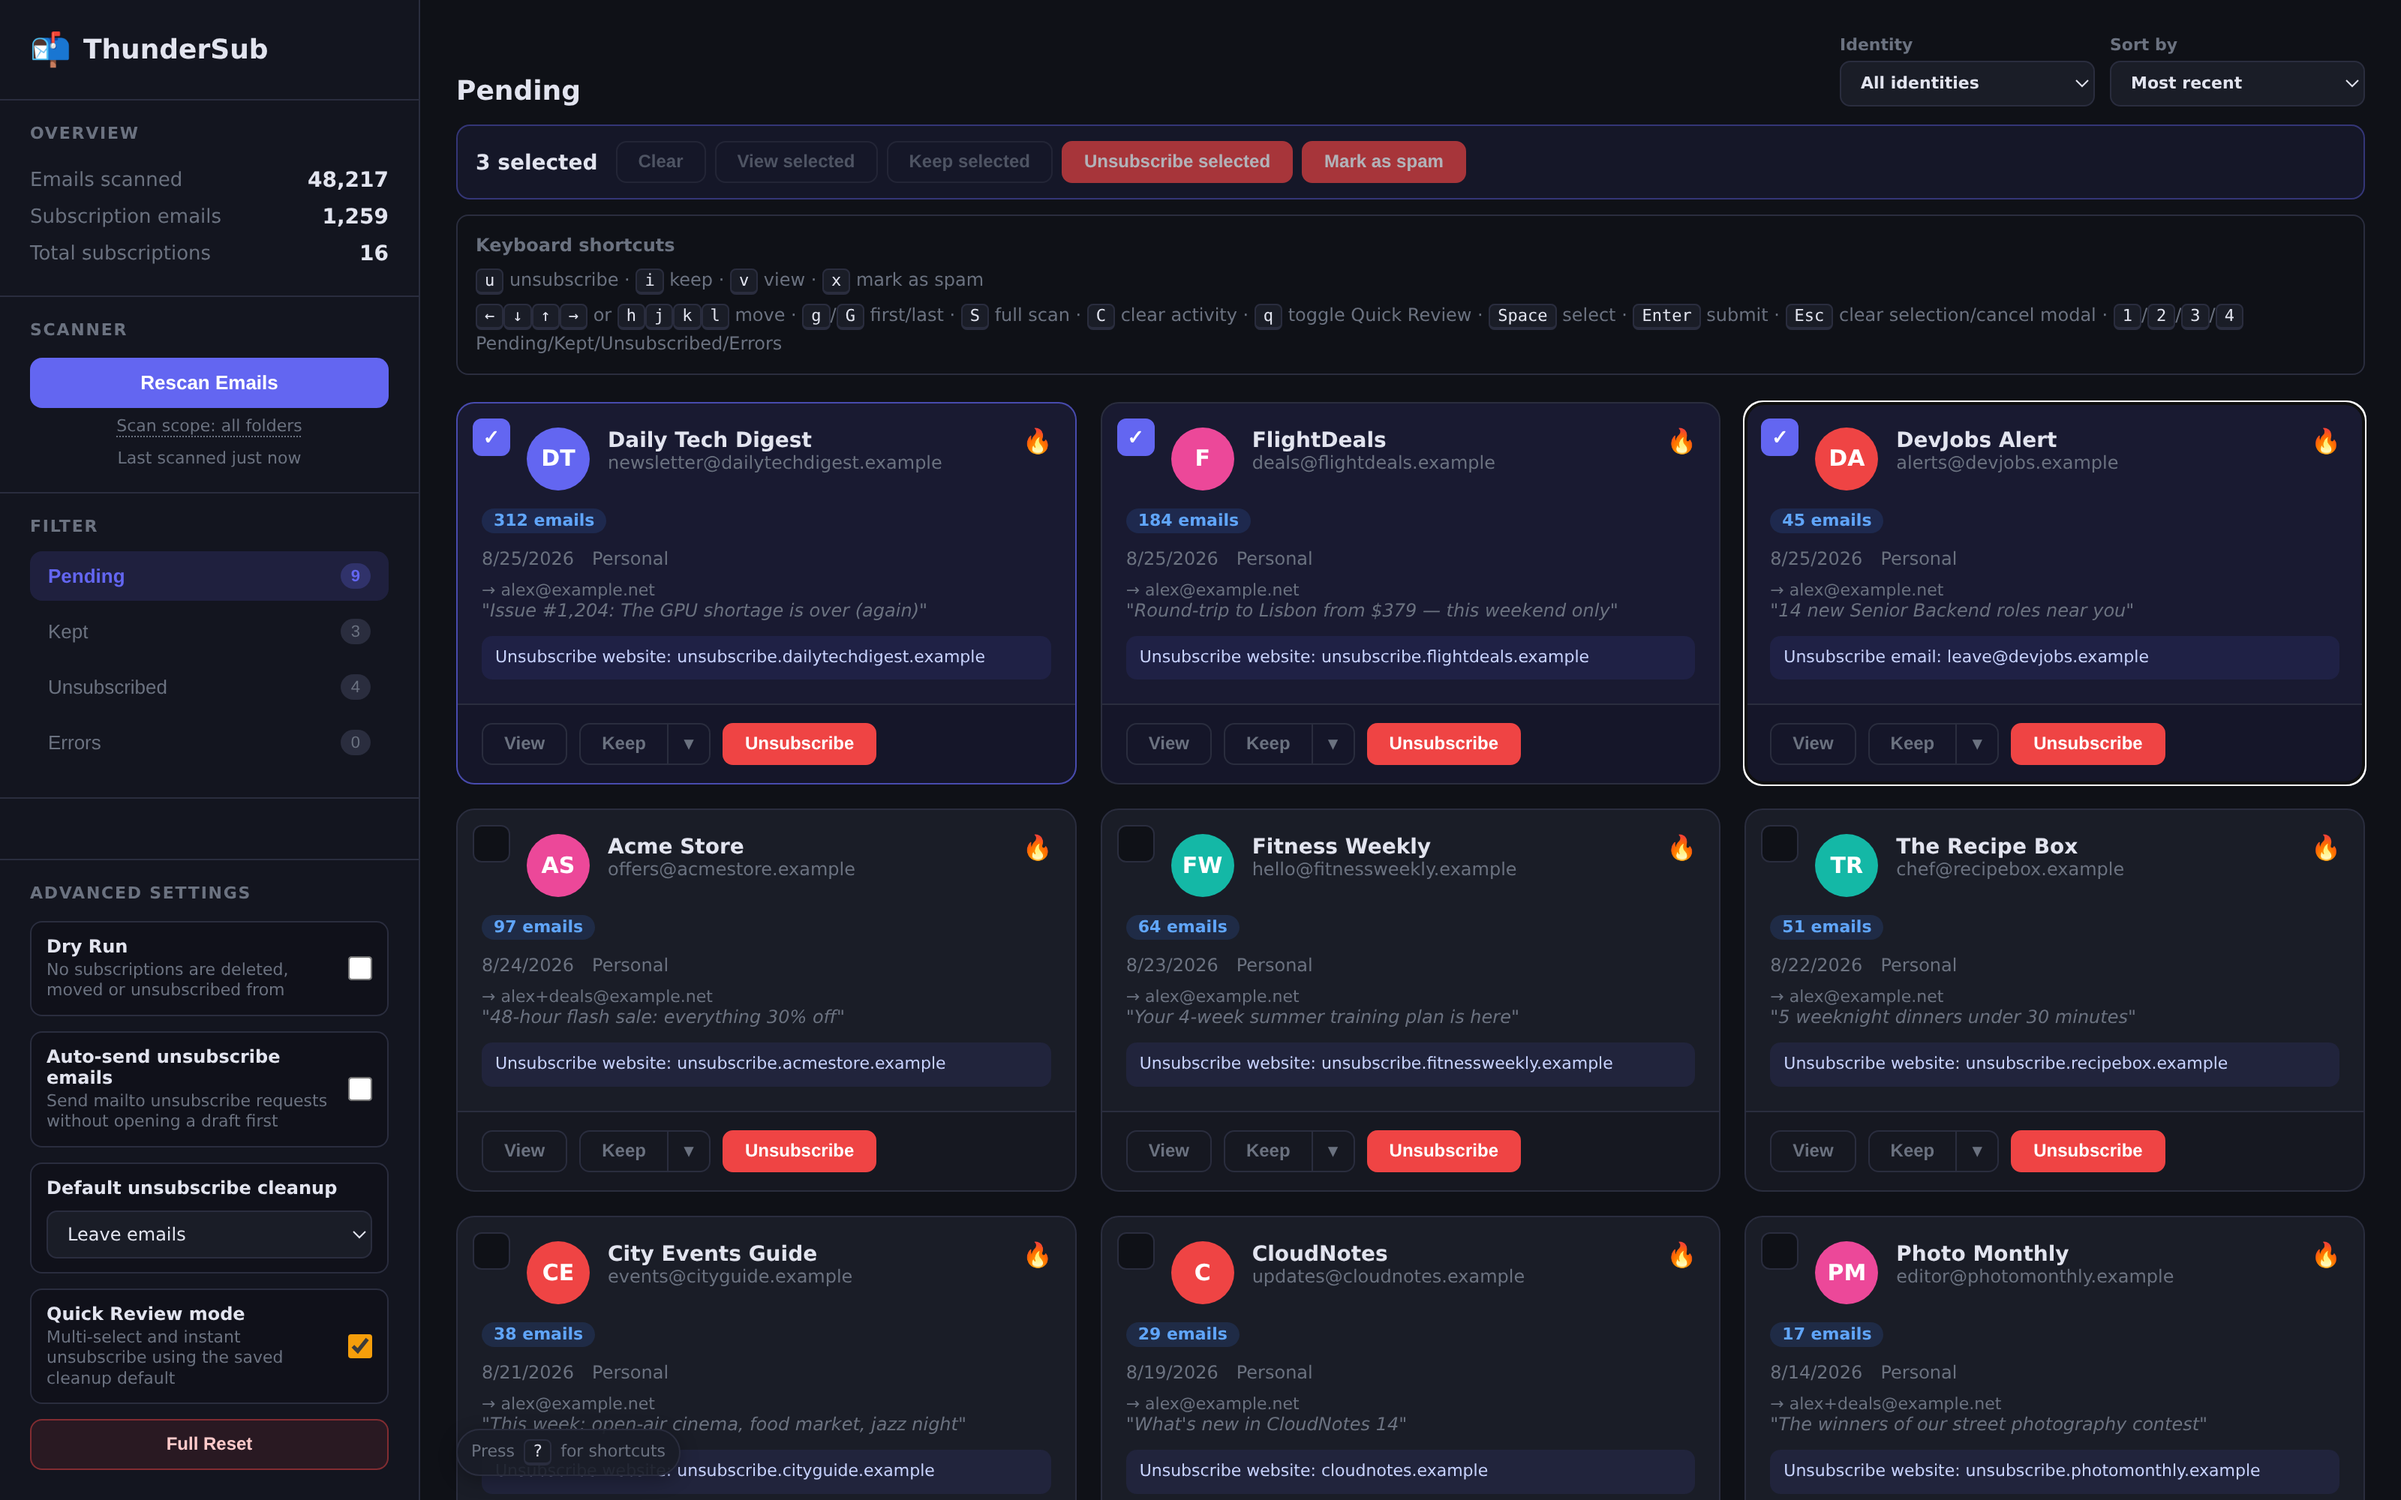
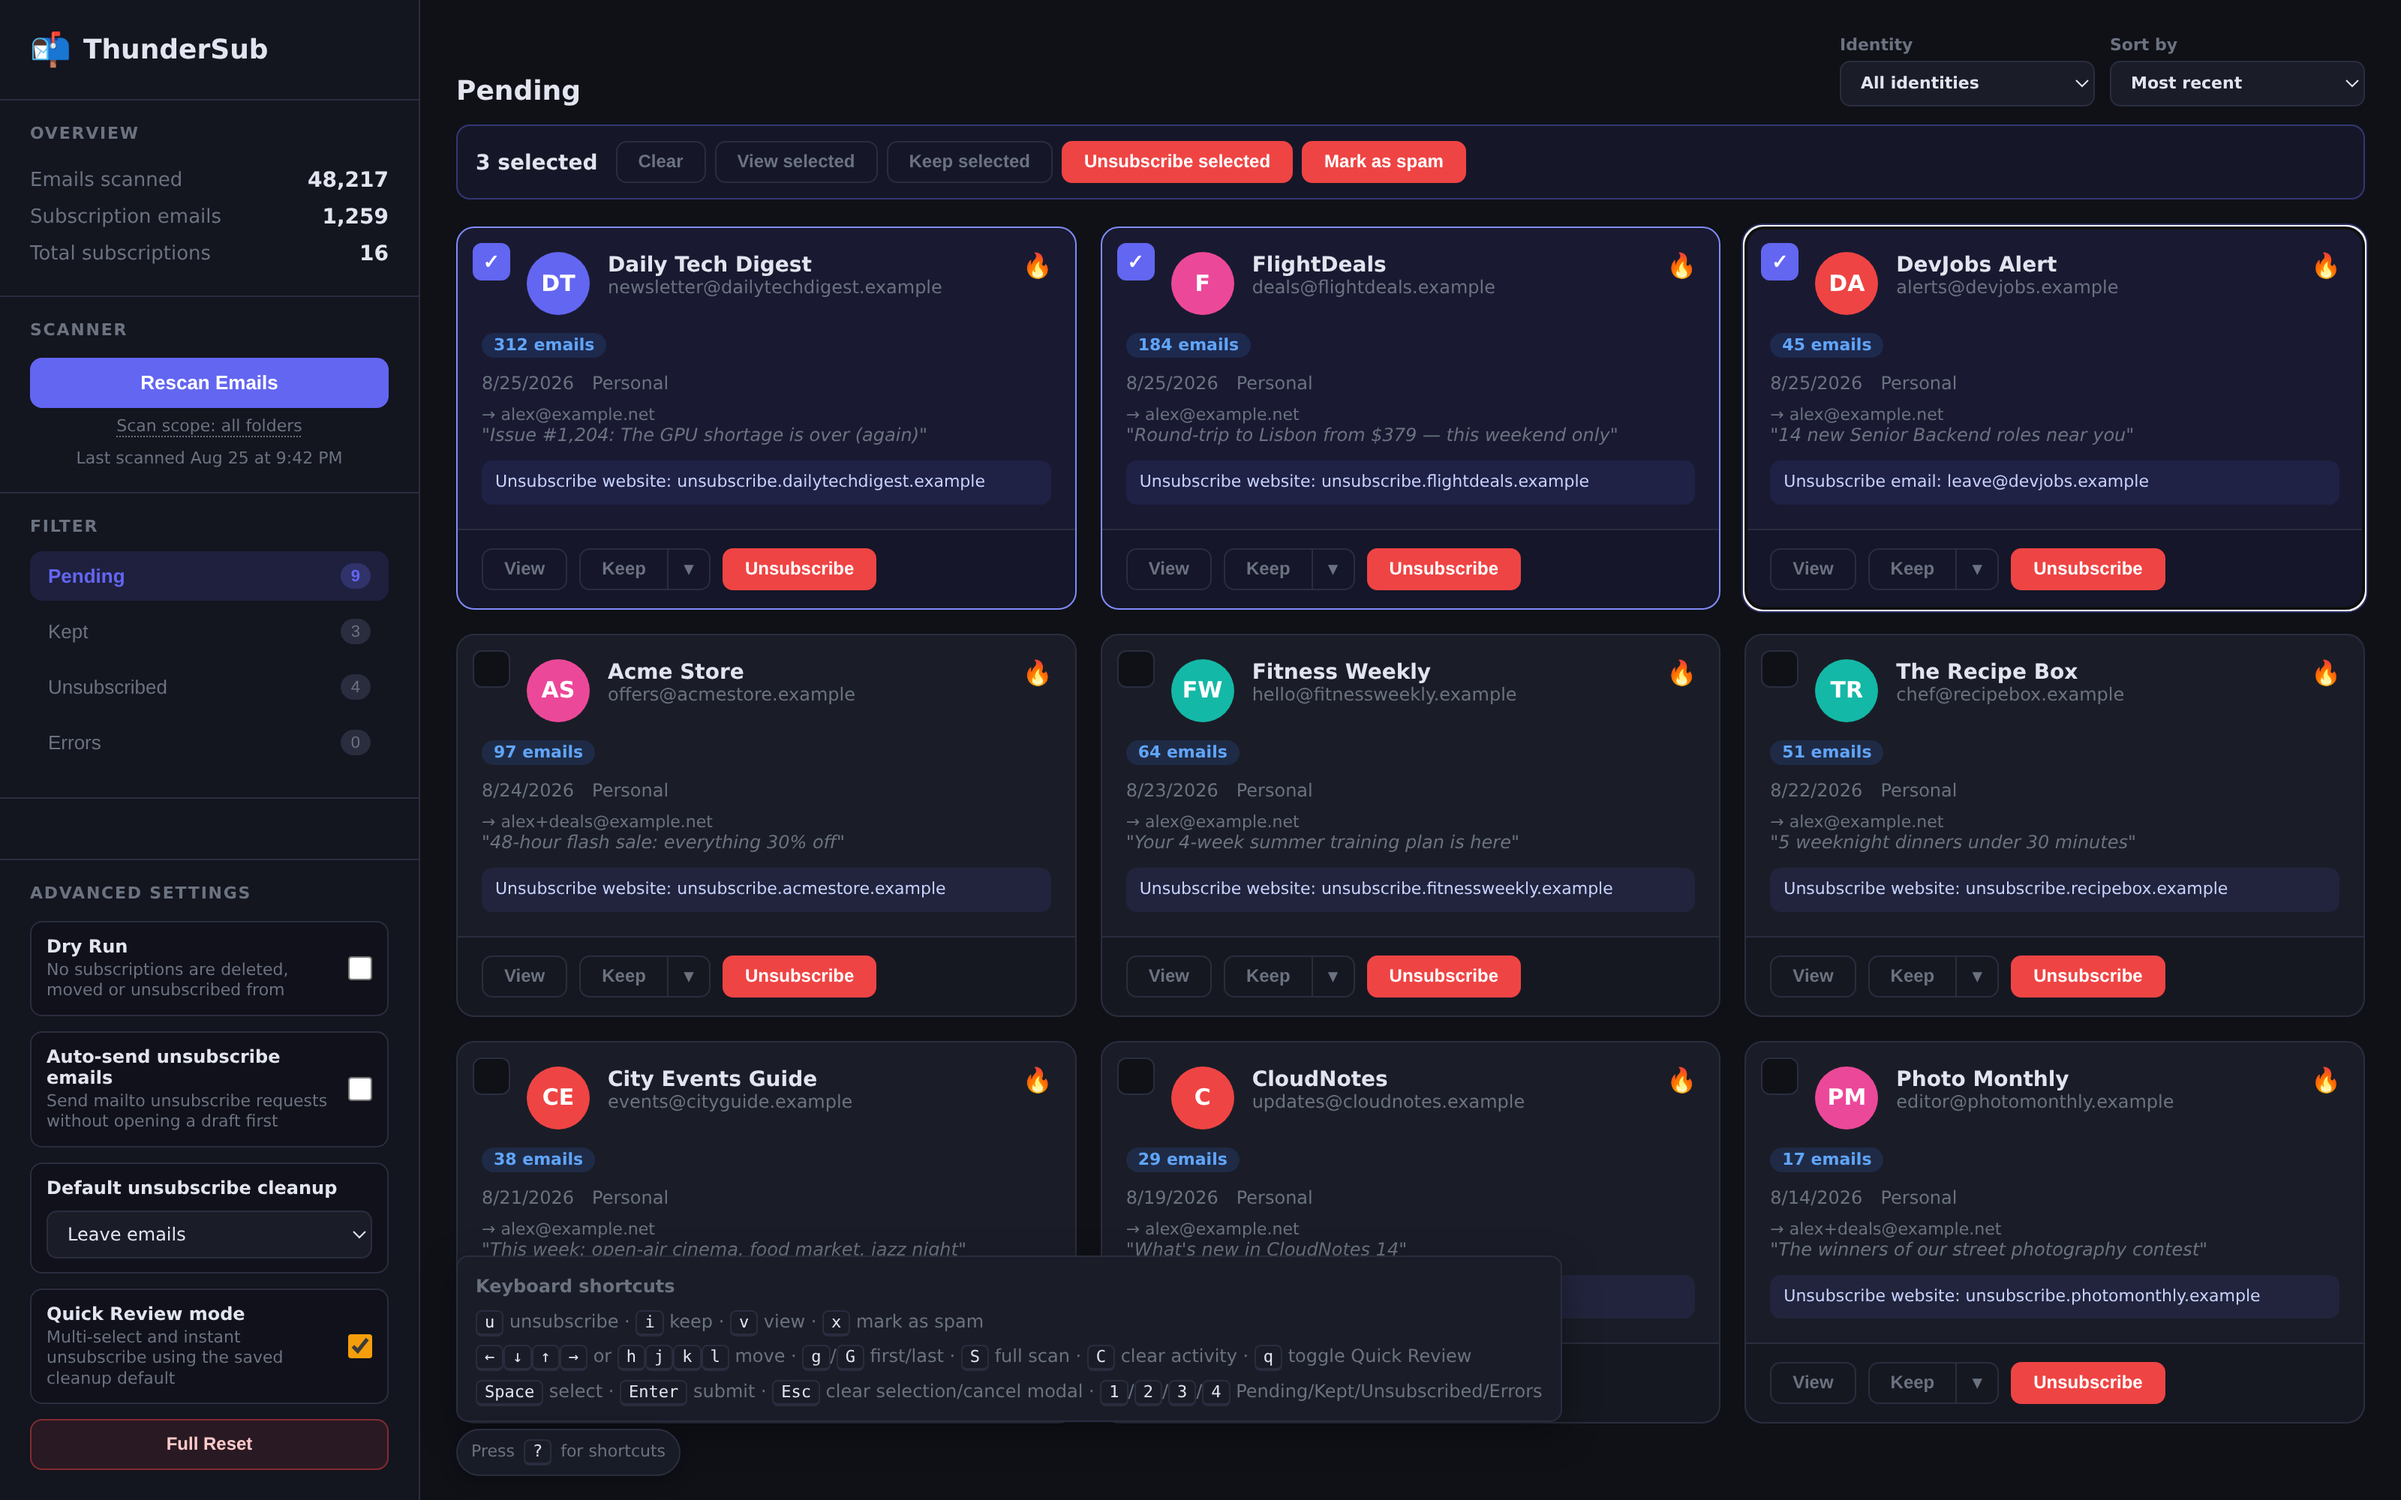
Release 1.1.1

diff --git a/tab/tab.html b/tab/tab.html
@@ -157,7 +157,8 @@
   <div id="shortcut-help" role="status">
     <strong>Keyboard shortcuts</strong>
     <span id="context-shortcuts"></span>
-    <span><kbd>←</kbd><kbd>↓</kbd><kbd>↑</kbd><kbd>→</kbd> or <kbd>h</kbd><kbd>j</kbd><kbd>k</kbd><kbd>l</kbd> move · <kbd>g</kbd>/<kbd>G</kbd> first/last · <kbd>S</kbd> full scan · <kbd>C</kbd> clear activity · <kbd>q</kbd> toggle Quick Review · <kbd>Space</kbd> select · <kbd>Enter</kbd> submit · <kbd>Esc</kbd> clear selection/cancel modal · <kbd>1</kbd>/<kbd>2</kbd>/<kbd>3</kbd>/<kbd>4</kbd> Pending/Kept/Unsubscribed/Errors</span>
+    <span><kbd>←</kbd><kbd>↓</kbd><kbd>↑</kbd><kbd>→</kbd> or <kbd>h</kbd><kbd>j</kbd><kbd>k</kbd><kbd>l</kbd> move · <kbd>g</kbd>/<kbd>G</kbd> first/last · <kbd>S</kbd> full scan · <kbd>C</kbd> clear activity · <kbd>q</kbd> toggle Quick Review</span>
+    <span><kbd>Space</kbd> select · <kbd>Enter</kbd> submit · <kbd>Esc</kbd> clear selection/cancel modal · <kbd>1</kbd>/<kbd>2</kbd>/<kbd>3</kbd>/<kbd>4</kbd> Pending/Kept/Unsubscribed/Errors</span>
   </div>
   <div id="cards-grid" role="grid" aria-label="Subscriptions">
     <div id="loading"><div class="spinner"></div>Loading...</div>

diff --git a/tab/tab.css b/tab/tab.css
@@ -167,7 +167,7 @@ body{display:flex;overflow:hidden}
 .quick-review-actions{display:flex;gap:6px;flex-wrap:wrap}
 .quick-review-actions button[hidden]{display:none}
 kbd{padding:1px 5px;border:1px solid var(--border);border-bottom-width:2px;border-radius:4px;background:var(--card);color:var(--text);font:11px monospace}
-#shortcut-help{display:none;margin:-8px 0 18px;padding:10px 12px;border:1px solid var(--border);border-radius:8px;color:var(--muted);font-size:12px;line-height:1.6}
+#shortcut-help{display:none;position:fixed;left:304px;bottom:52px;z-index:90;width:max-content;max-width:calc(100vw - 328px);padding:10px 12px;border:1px solid var(--border);border-radius:8px;background:var(--card);box-shadow:0 8px 24px rgba(0,0,0,.34);color:var(--muted);font-size:12px;line-height:1.6;white-space:nowrap}
 #shortcut-help.open{display:flex;flex-direction:column;gap:4px}
 .list-controls{display:flex;align-items:flex-end;justify-content:flex-end;gap:10px;flex-wrap:wrap}
 .list-control{display:flex;flex-direction:column;gap:4px;color:var(--muted);font-size:11px;font-weight:600}

diff --git a/store/LISTING.md b/store/LISTING.md
@@ -129,12 +129,13 @@ They show the real tab UI (unmodified `tab/tab.html`/`tab.css`/`tab.js`) rendere
 demo data (`.example` senders, `alex@example.net` recipient) — regenerate any time with
 `bash store/screenshots/make.sh` (needs chromium or nix).
 
-## Release notes (1.1.0)
+## Release notes (1.1.1)
 
 ```
-Version 1.1.0 — Quick Review and workflow update.
+Version 1.1.1 — Quick Review and workflow update.
 
 • Added keyboard-first navigation and contextual shortcuts across every review list.
+• Added a floating keyboard-shortcut reference that stays available while reviewing.
 • Added Quick Review multi-select with matching contextual batch-action buttons.
 • Added instant unsubscribe and batch cleanup using the saved cleanup default.
 • Added per-identity move destinations, including folder creation.

diff --git a/RELEASE_NOTES.md b/RELEASE_NOTES.md
@@ -1,6 +1,7 @@
-Version 1.1.0 — Quick Review and workflow update.
+Version 1.1.1 — Quick Review and workflow update.
 
 - Added keyboard-first navigation and contextual shortcuts across every review list
+- Added a floating keyboard-shortcut reference that stays available while reviewing
 - Added Quick Review multi-select with matching batch-action buttons
 - Added instant unsubscribe and batch cleanup using the saved cleanup default
 - Added per-identity default move destinations, including folder creation
